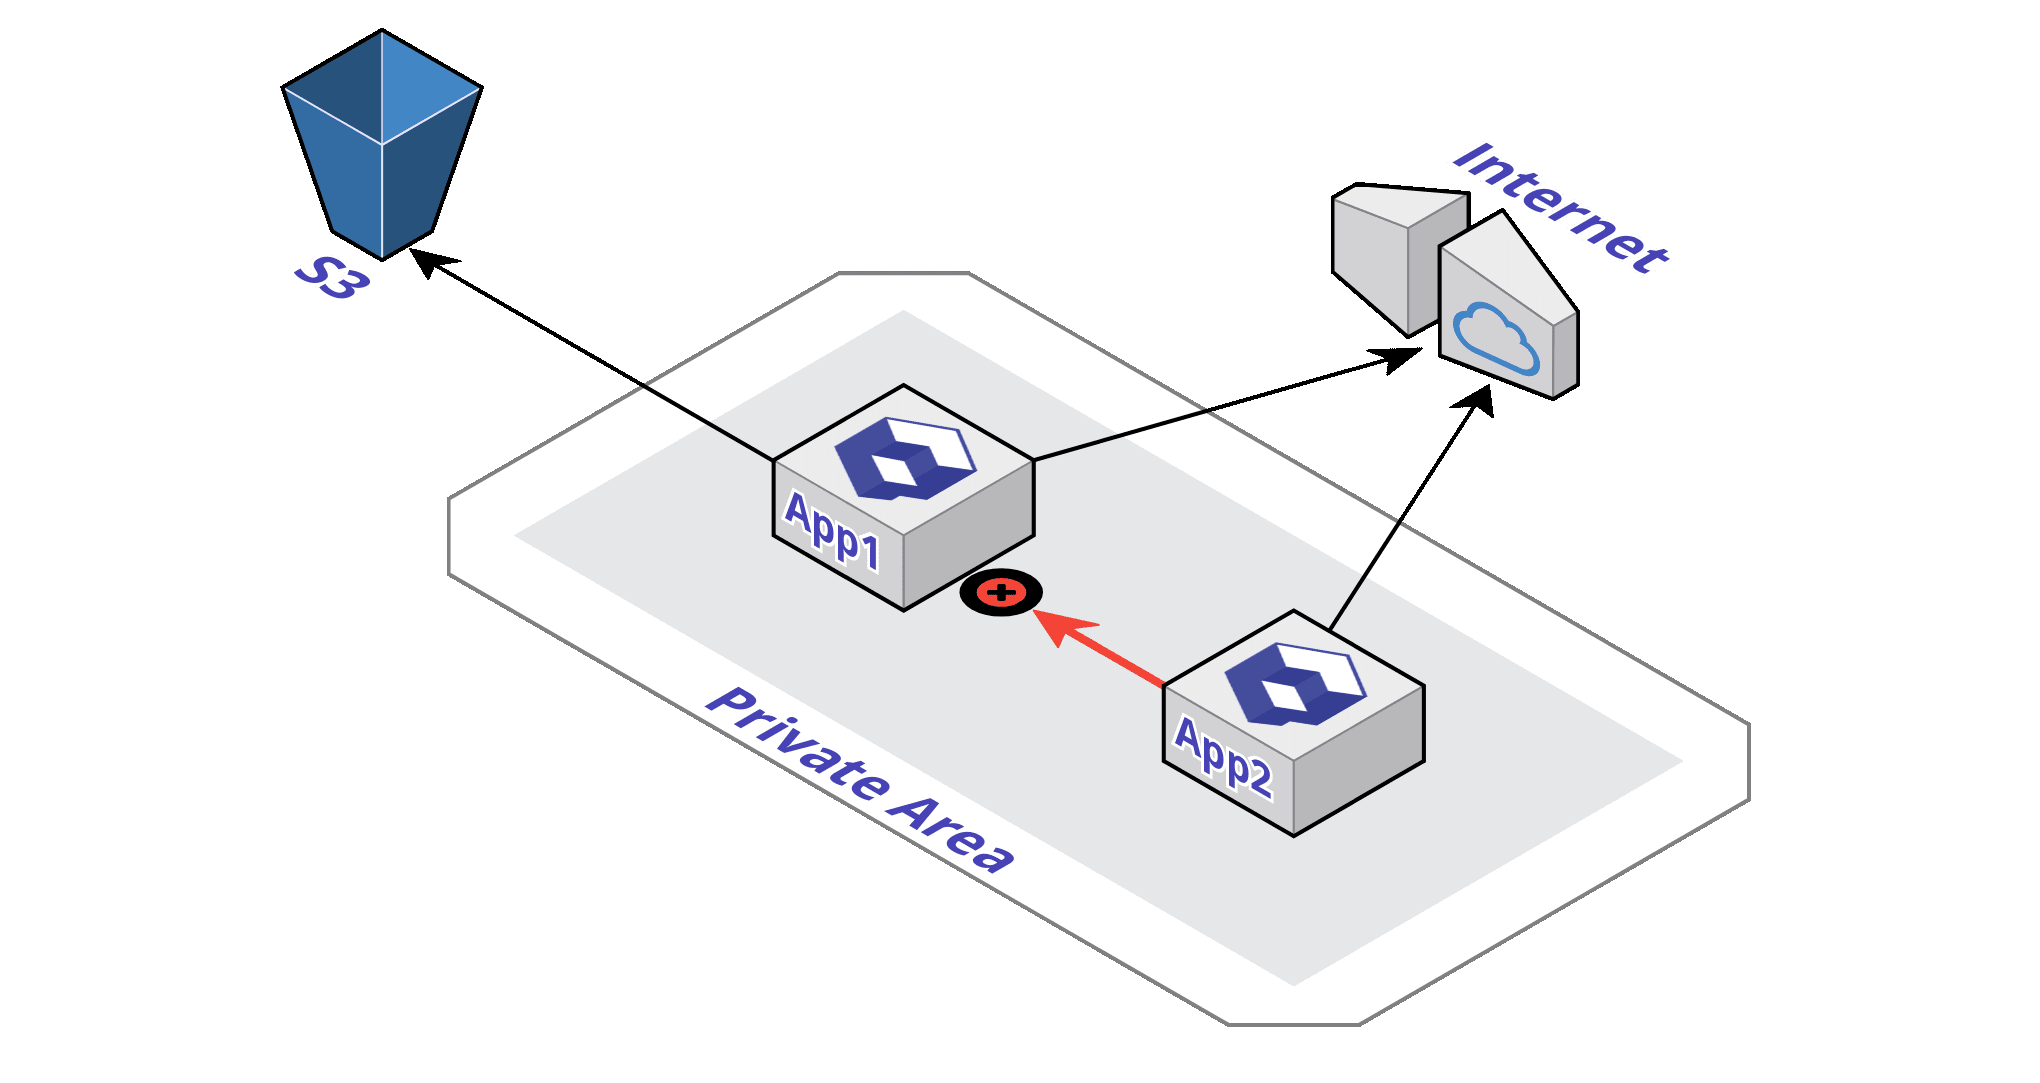
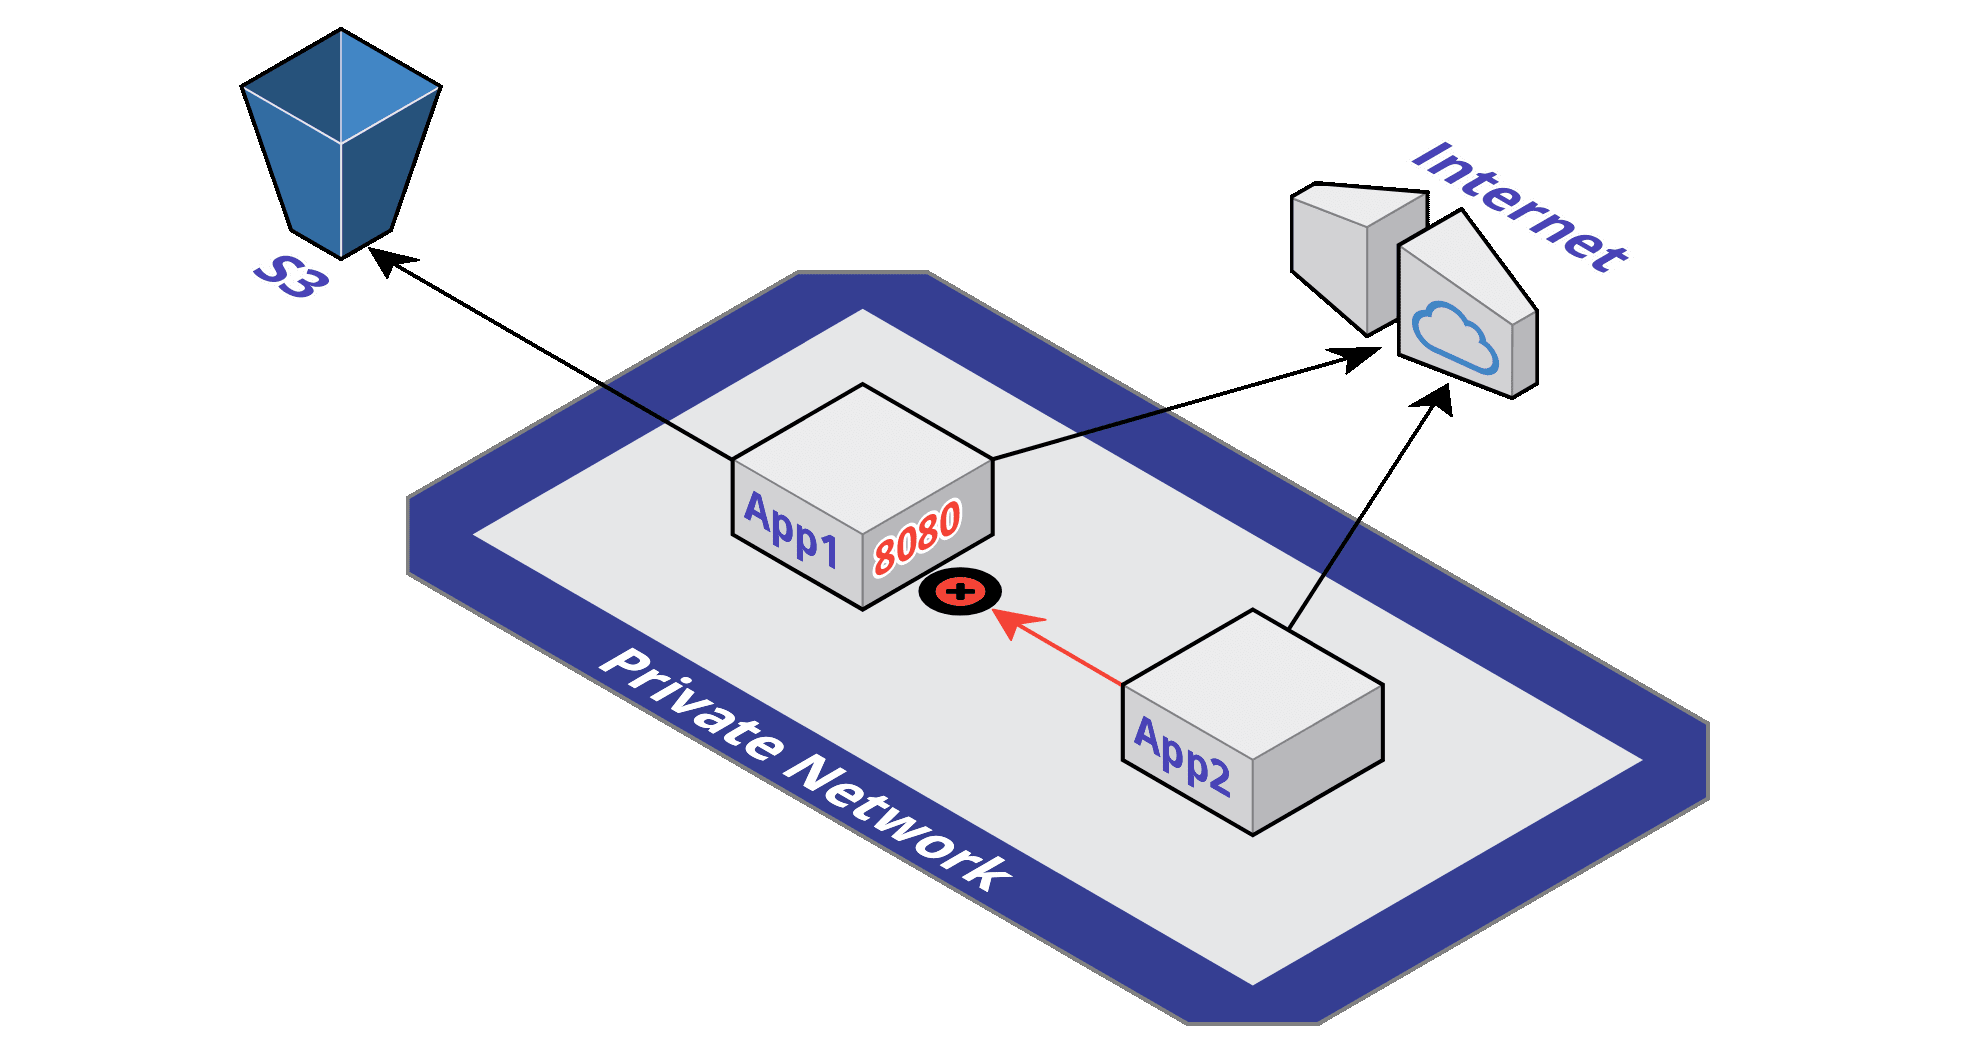
GitBook: [master] one page and 3 assets modified

diff --git a/services/network/README.md b/services/network/README.md
@@ -12,7 +12,13 @@ On your Qovery project, you can configure the way your applications are accessib
 
 ## Closed Access
 
-This is the default behavior, **you don't have anything to do**. No other application is able to talk to it but your application can talk to anyone.
+This is the default behavior, **you don't have anything to do**.
+
+{% hint style="info" %}
+Nobody is able to talk to your application but it can talk to anyone
+{% endhint %}
+
+Here App1 can't be contacted by App2, but App1 is able to use S3 and Internet.
 
 ![](../../.gitbook/assets/qovery-closed-network.png)
 
@@ -22,9 +28,11 @@ If your application **do not have to listen to a port** \(eg: pure computing or 
 
 In the case you have **several applications running in the same Qovery project**, you may need to have applications talking together in a **private, dedicated and secure area**.
 
-For example, your application called "AppB" needs to talk to another running application called "AppA". The "AppA" application has to expose its running port.
+![](../../.gitbook/assets/qovery-private-network.png)
 
-To do so, in the Qovery configuration file \(.qovery.yml\) of the "AppA" application, add the "private-port" line:
+For example, your application called "App2" needs to talk to another running application called "App1". The "App1" application has to expose its running port.
+
+To do so, in the Qovery configuration file \(.qovery.yml\) of the "App1" application, add the "private-port" line:
 
 {% tabs %}
 {% tab title=".qovery.yml" %}
@@ -37,7 +45,7 @@ app:
 {% endtab %}
 {% endtabs %}
 
-Here the port "8080" will be securely exposed to other applications. In order to target "AppA" application, "AppB" application has to point to "AppA:8080".
+Here the port "8080" will be securely exposed to other applications. In order to target "App1" application, "App2" application has to point to "App1:8080".
 
 ### Multiple private ports
 
@@ -59,6 +67,8 @@ application:
 ## Public Access
 
 To allow public access on a specific application port, you have to first expose the port as described in the "[Private Access](./#private-access)" section of this page.
+
+![](../../.gitbook/assets/qovery-pulic-network.png)
 
 Then you have to declare in the Qovery configuration file \(.qovery.yaml\), the desired port for external access \(here 80, the http port\):
 
